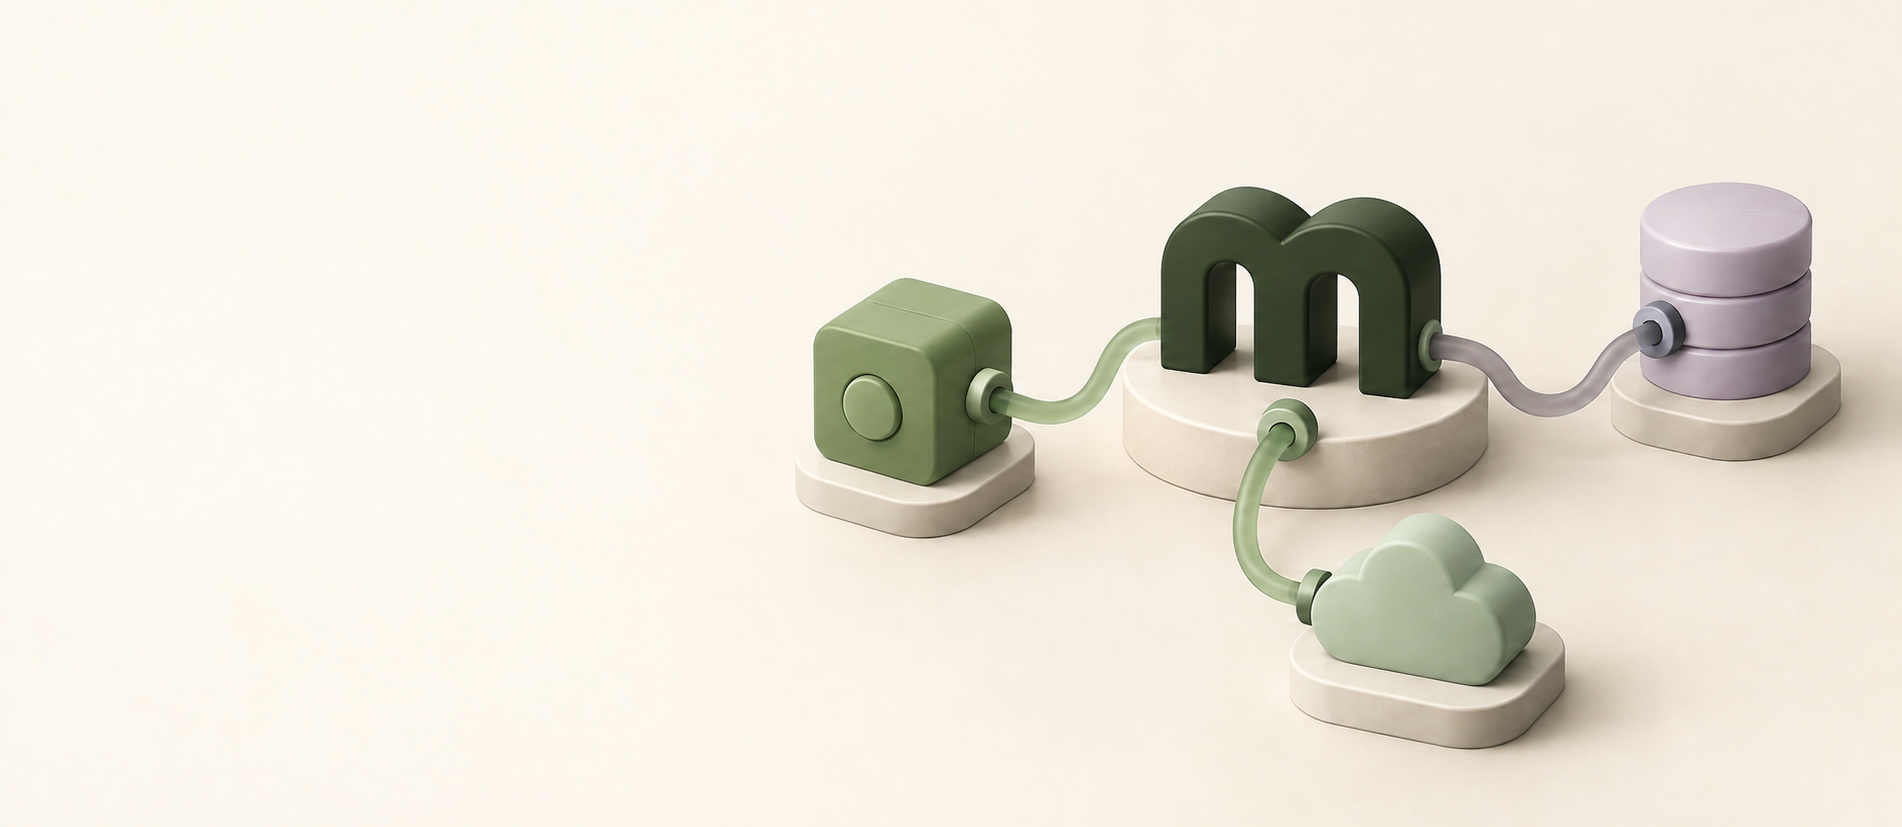
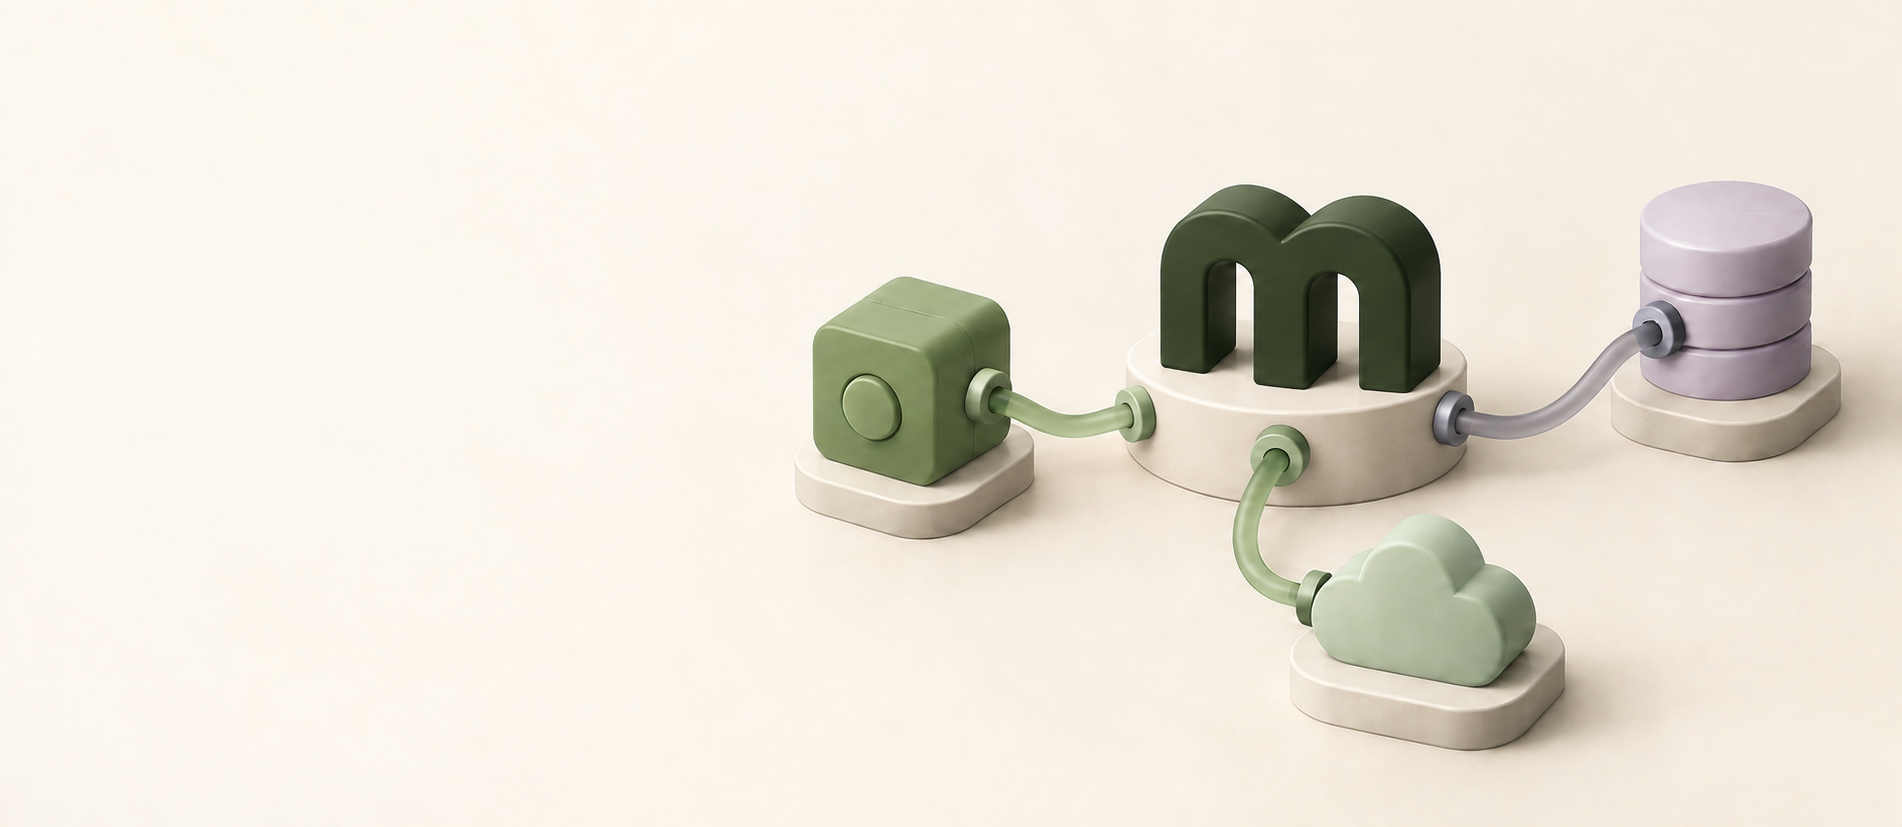
fix: seat service connectors on the pedestal
AI-Assisted: codex

diff --git a/docs/BRAND_PROMPTS.md b/docs/BRAND_PROMPTS.md
@@ -53,3 +53,28 @@ Primary request: draw ONLY the central lowercase m standing on its oval cylindri
 Composition: square icon canvas, object within about 85% width and 82% height, no outer app tile.
 Constraints: pure solid black foreground and truly transparent background/cutouts; no gray, no color, no gradients, no drop shadow, no texture, no text, no extra decoration. Exact reference motif and view angle, just simplified for small-size clarity.
 ```
+
+## Pedestal connection correction
+
+```text
+Use case: precise-object-edit
+Asset type: approved mcpme repository illustration.
+Edit target: supplied image.
+Primary request: make ALL THREE service cables join the ivory cylindrical PEDESTAL beneath the dark green lowercase m. The pedestal is the shared connection hub. The m sculpture should have clean smooth surfaces with no plugs or sockets.
+Detailed correction: relocate the left green cable's host socket from the m to the left side of the pedestal's cylindrical vertical wall; relocate the right pale cable's host socket from the m to the right side of that same pedestal wall; seat the front mint cable's socket completely flush on the front vertical wall. Every entire mounting ring must sit visibly BELOW the pedestal's top rim and ABOVE its bottom edge, never straddling the rim or floating. Size the rings to fit the wall thickness. Use restrained contact shadows and physically plausible cable insertion. Smoothly reconnect the existing cable paths to these new positions, keeping each service end attached to its original module.
+Constraints: edit only the three cable attachments at the central pedestal, the short adjoining cable curves, and heal the vacated socket areas on the m. Preserve the m's geometry and angle, pedestal shape and size, all three service modules and their end sockets, their individual pedestals, palette, materials, lighting, shadows, camera, exact image dimensions, background, margins, and overall composition. Preserve every existing text pixel if text is present; do not add, remove, or alter text. No new objects, no extra cables, no watermark.
+```
+
+The illustration without text was selected as the final corrected composition.
+
+## Wordmark on the selected corrected illustration
+
+```text
+Use case: text-localization
+Asset type: final mcpme repository banner.
+Image 1: EDIT TARGET, the user's chosen second corrected illustration with all three sockets fully seated on the central pedestal. This entire sculpture scene is approved.
+Image 2: TYPOGRAPHY REFERENCE ONLY, the original banner with the approved stylized mcpme wordmark. Do not copy its objects or cable positions.
+Primary request: add the exact lowercase word "mcpme" to the empty LEFT side of Image 1, using precisely the rounded geometric dark green lettering style, scale, spacing, and placement from Image 2. The word should occupy the same quiet left area, to the left of all sculptural objects, vertically centered as in the original banner.
+Exact text: "mcpme". Five lowercase letters, in order m c p m e. No tagline or extra text.
+Constraints: change only the left negative space by adding this wordmark. Preserve Image 1's three pedestal sockets and every cable placement, the slightly taller cylindrical pedestal, m geometry and angle, all modules, bases, materials, colors, lighting, shadows, camera, background, margins, exact dimensions and composition. Do not restore any socket to the m. No watermark.
+```
